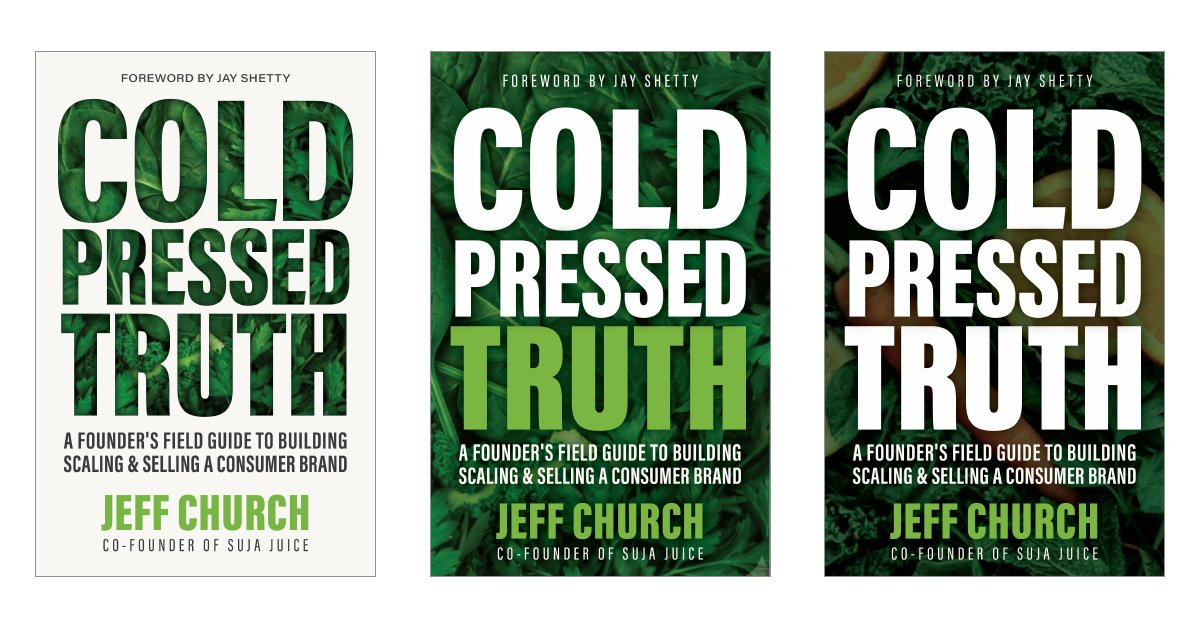
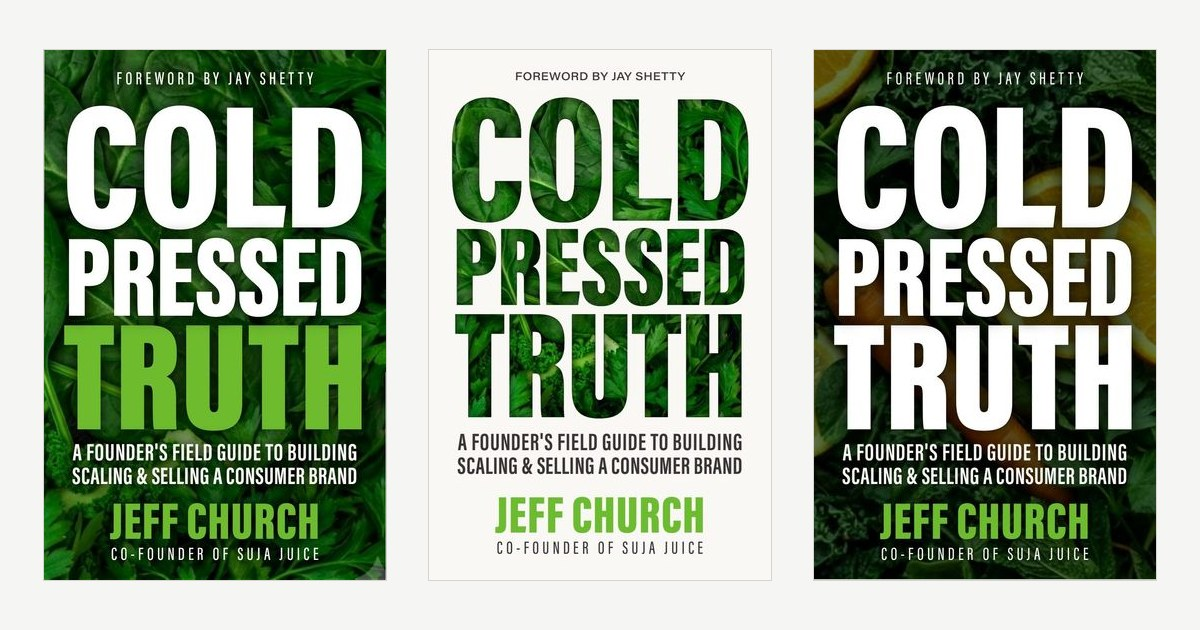
Reorder covers, define the cream edge, keep results private
- Cream cover moves to the middle and becomes Cover B; green is now A,
  citrus stays C. Image files renumbered to match so the letters and the
  filenames never drift apart.
- All three normalized to 825x1280 and given a hairline border. The cream
  cover is #f9f8f4 to its edge, so against the white card it had no
  boundary and read as smaller than the two dark ones.
- Voters no longer see the tally after submitting — they get their pick
  confirmed and the opt-in. The POST response drops the counts too, so
  results aren't readable from the network tab. Totals stay at
  /admin/book-covers.
- OG preview rebuilt in the new order on a light backdrop.

diff --git a/src/components/cover-poll.tsx b/src/components/cover-poll.tsx
@@ -5,14 +5,9 @@ import { useEffect, useState, type FormEvent } from "react";
 
 type Choice = "A" | "B" | "C";
 
-type Results = {
-  counts: Record<Choice, number>;
-  total: number;
-} | null;
-
 const COVERS: { id: Choice; note: string; src: string }[] = [
-  { id: "A", note: "Cream", src: "/images/book-covers/cover-a.jpg" },
-  { id: "B", note: "Green", src: "/images/book-covers/cover-b.jpg" },
+  { id: "A", note: "Green", src: "/images/book-covers/cover-a.jpg" },
+  { id: "B", note: "Cream", src: "/images/book-covers/cover-b.jpg" },
   { id: "C", note: "Citrus", src: "/images/book-covers/cover-c.jpg" },
 ];
 
@@ -37,7 +32,6 @@ function readVoterId() {
 export function CoverPoll() {
   const [selected, setSelected] = useState<Choice | null>(null);
   const [voted, setVoted] = useState(false);
-  const [results, setResults] = useState<Results>(null);
   const [voting, setVoting] = useState(false);
   const [voteError, setVoteError] = useState(false);
   const [zoom, setZoom] = useState<Choice | null>(null);
@@ -77,8 +71,6 @@ export function CoverPoll() {
 
       if (!res.ok) throw new Error("vote failed");
 
-      const data = await res.json();
-      setResults(data.results ?? null);
       setVoted(true);
       try {
         localStorage.setItem(CHOICE_KEY, selected);
@@ -126,6 +118,7 @@ export function CoverPoll() {
   }
 
   const zoomCover = COVERS.find((c) => c.id === zoom);
+  const votedCover = COVERS.find((c) => c.id === selected);
 
   return (
     <>
@@ -173,14 +166,19 @@ export function CoverPoll() {
                         : "ring-1 ring-border shadow-sm hover:shadow-lg hover:ring-accent/40"
                     }`}
                   >
-                    <Image
-                      src={cover.src}
-                      alt={`Cover ${cover.id} — ${cover.note}`}
-                      width={825}
-                      height={1275}
-                      priority={cover.id === "A"}
-                      className="w-full h-auto"
-                    />
+                    {/* The hairline keeps the cream cover from dissolving into
+                        the white card and reading smaller than the other two. */}
+                    <span className="relative block">
+                      <Image
+                        src={cover.src}
+                        alt={`Cover ${cover.id} — ${cover.note}`}
+                        width={825}
+                        height={1280}
+                        priority
+                        className="block w-full h-auto"
+                      />
+                      <span className="pointer-events-none absolute inset-0 border border-black/15" />
+                    </span>
                     <span
                       className={`flex items-center justify-center gap-2 py-3 text-sm font-bold uppercase tracking-wider transition-colors ${
                         isSelected ? "bg-accent text-white" : "bg-white text-foreground"
@@ -250,63 +248,35 @@ export function CoverPoll() {
         </>
       )}
 
-      {/* ========== RESULTS + OPT-IN ========== */}
+      {/* ========== CONFIRMATION + OPT-IN ========== */}
+      {/* Running totals stay private — voters shouldn't be swayed by the pack. */}
       {voted && (
         <>
-          {results && results.total > 0 && (
-            <div className="mt-8 rounded-2xl border border-border bg-card p-5 sm:p-6">
-              <p className="text-xs font-bold uppercase tracking-wider text-muted">
-                Where it stands ({results.total} {results.total === 1 ? "vote" : "votes"})
-              </p>
-              <div className="mt-4 space-y-4">
-                {COVERS.map((cover) => {
-                  const count = results.counts[cover.id] ?? 0;
-                  const percent = results.total ? Math.round((count / results.total) * 100) : 0;
-                  return (
-                    <div key={cover.id} className="flex items-center gap-3">
-                      <Image
-                        src={cover.src}
-                        alt=""
-                        width={825}
-                        height={1275}
-                        className="h-14 w-auto rounded shadow-sm shrink-0"
-                      />
-                      <div className="flex-1 min-w-0">
-                        <div className="flex items-baseline justify-between gap-2 text-sm">
-                          <span
-                            className={`font-semibold ${
-                              selected === cover.id ? "text-accent" : ""
-                            }`}
-                          >
-                            Cover {cover.id}
-                            {selected === cover.id && (
-                              <span className="ml-1 font-normal text-muted">(yours)</span>
-                            )}
-                          </span>
-                          <span className="text-muted tabular-nums">
-                            {percent}% &middot; {count}
-                          </span>
-                        </div>
-                        <div className="mt-1.5 h-2.5 rounded-full bg-stone-200 overflow-hidden">
-                          <div
-                            className={`h-full rounded-full transition-all duration-700 ${
-                              selected === cover.id ? "bg-accent" : "bg-stone-400"
-                            }`}
-                            style={{ width: `${percent}%` }}
-                          />
-                        </div>
-                      </div>
-                    </div>
-                  );
-                })}
+          {votedCover && (
+            <div className="mt-8 flex items-center gap-4 rounded-2xl border border-border bg-card p-4 sm:p-5">
+              <span className="relative block shrink-0">
+                <Image
+                  src={votedCover.src}
+                  alt={`Cover ${votedCover.id}`}
+                  width={825}
+                  height={1280}
+                  className="block h-20 w-auto rounded shadow-sm"
+                />
+                <span className="pointer-events-none absolute inset-0 rounded border border-black/15" />
+              </span>
+              <div className="min-w-0">
+                <p className="text-xs font-bold uppercase tracking-wider text-accent">
+                  Your vote is in
+                </p>
+                <p className="mt-1 font-serif text-xl font-bold">Cover {votedCover.id}</p>
+                <button
+                  type="button"
+                  onClick={() => setVoted(false)}
+                  className="mt-1 text-sm text-muted underline underline-offset-4 hover:text-accent"
+                >
+                  Change my vote
+                </button>
               </div>
-              <button
-                type="button"
-                onClick={() => setVoted(false)}
-                className="mt-5 text-sm text-muted underline underline-offset-4 hover:text-accent"
-              >
-                Change my vote
-              </button>
             </div>
           )}
 
@@ -384,7 +354,7 @@ export function CoverPoll() {
             src={zoomCover.src}
             alt={`Cover ${zoomCover.id} — ${zoomCover.note}`}
             width={825}
-            height={1275}
+            height={1280}
             className="max-h-[88vh] w-auto rounded-lg shadow-2xl"
           />
           <button

diff --git a/src/app/api/book-cover-vote/route.ts b/src/app/api/book-cover-vote/route.ts
@@ -4,7 +4,7 @@ import { getSupabaseAdmin } from "@/lib/supabase";
 import { submitToKajabiForm, BOOK_WAITLIST_FORM_ID } from "@/lib/kajabi";
 
 // Cover poll for The Cold-Pressed Truth — see /bookcovers.
-//   POST  cast (or change) a vote, returns the running tally
+//   POST  cast (or change) a vote
 //   PUT   attach name/email/comment to that vote and join the book waitlist
 
 const CHOICES = ["A", "B", "C"] as const;
@@ -26,23 +26,6 @@ function hashIp(request: Request) {
   if (!ip) return null;
   const salt = process.env.ADMIN_PASSWORD || "cpg";
   return createHash("sha256").update(`${salt}:${ip}`).digest("hex").slice(0, 32);
-}
-
-async function getTallies() {
-  const supabase = getSupabaseAdmin();
-  if (!supabase) return null;
-
-  const { data, error } = await supabase.from(TABLE).select("choice");
-  if (error) {
-    console.error("Cover vote tally error:", error);
-    return null;
-  }
-
-  const counts: Record<Choice, number> = { A: 0, B: 0, C: 0 };
-  for (const row of data || []) {
-    if (isChoice(row.choice)) counts[row.choice] += 1;
-  }
-  return { counts, total: (data || []).length };
 }
 
 export async function POST(request: Request) {
@@ -77,7 +60,9 @@ export async function POST(request: Request) {
       return NextResponse.json({ error: "Failed to record vote" }, { status: 500 });
     }
 
-    return NextResponse.json({ success: true, results: await getTallies() });
+    // Deliberately no tally in the response — running totals stay private so
+    // voters aren't swayed by the pack. Results live at /admin/book-covers.
+    return NextResponse.json({ success: true });
   } catch (err) {
     console.error("Cover vote error:", err);
     return NextResponse.json({ error: "Something went wrong" }, { status: 500 });

diff --git a/src/app/admin/(panel)/book-covers/page.tsx b/src/app/admin/(panel)/book-covers/page.tsx
@@ -15,8 +15,8 @@ type VoteRow = {
 };
 
 const COVERS: { id: Choice; note: string; src: string }[] = [
-  { id: "A", note: "Cream", src: "/images/book-covers/cover-a.jpg" },
-  { id: "B", note: "Green", src: "/images/book-covers/cover-b.jpg" },
+  { id: "A", note: "Green", src: "/images/book-covers/cover-a.jpg" },
+  { id: "B", note: "Cream", src: "/images/book-covers/cover-b.jpg" },
   { id: "C", note: "Citrus", src: "/images/book-covers/cover-c.jpg" },
 ];
 
@@ -98,8 +98,8 @@ export default async function BookCoverVotesPage() {
                   src={cover.src}
                   alt={`Cover ${cover.id}`}
                   width={825}
-                  height={1275}
-                  className="h-20 w-auto rounded shadow-sm"
+                  height={1280}
+                  className="h-20 w-auto rounded border border-black/10 shadow-sm"
                 />
                 <div className="min-w-0">
                   <p className="text-xs uppercase tracking-wide text-muted">{cover.note}</p>
